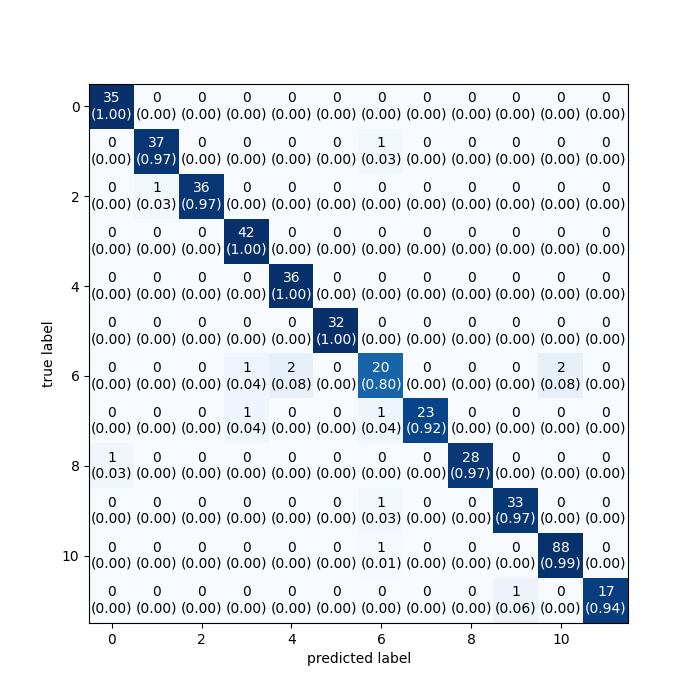
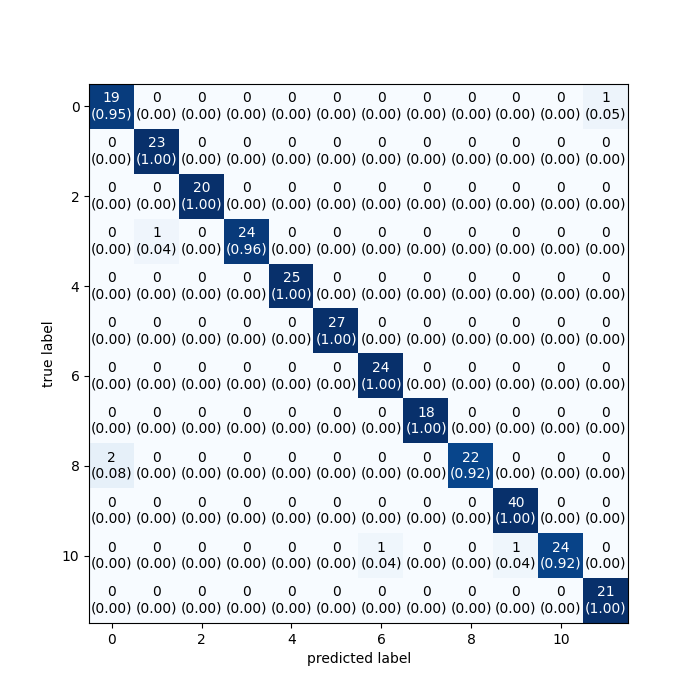
new sound data

diff --git a/room_sound/audio_process.py b/room_sound/audio_process.py
@@ -4,6 +4,9 @@ def copy_file(dir, target_dir):
     path = dir
     count = 0
     prefix = ''
+    if not os.path.exists(target_dir):
+        os.mkdir(target_dir)
+
     for fn in os.listdir(path):
         if os.path.isdir(dir + '/' + fn):
             print(fn)
@@ -69,15 +72,46 @@ def audio_file_truncate_by_dir(dir):
     path = dir
     count = 0
     prefix = ''
+    cnt = 0
     for fn in os.listdir(path):
         if os.path.isdir(dir + '/' + fn):
             source_dir = dir + '/' + fn
-            target_dir = source_dir.replace('ascc_activity', 'ascc_activity_1second')
+            target_dir = source_dir + '_1second'
             print(source_dir)
             print(target_dir)
 
             cnt = audio_file_truncate(source_dir, target_dir)
             print('Count:', cnt)
+
+            count = count + cnt
+
+    return count
+
+
+
+def audio_file_copy_truncate_by_dir(dir):
+    path = dir
+    count = 0
+    prefix = ''
+    cnt = 0
+    for fn in os.listdir(path):
+        if os.path.isdir(dir + '/' + fn):
+            source_dir = dir + '/' + fn
+            cp_dest_dir = source_dir + '_test'
+            print('cp:', source_dir)
+            print('cp:', cp_dest_dir)
+
+
+            cnt = copy_file(source_dir, cp_dest_dir)
+            print("count:", cnt)
+
+            
+            source_dir = cp_dest_dir
+            truncate_dir = source_dir + '_1second'
+            print('truncate:', source_dir)
+            print('truncate:', truncate_dir)
+            cnt = audio_file_truncate(source_dir, truncate_dir)
+            print('truncate Count:', cnt)
 
             count = count + cnt
 
@@ -106,18 +140,19 @@ if __name__ == '__main__':
     # cnt = copy_file(dir, target)
     # print("count:", cnt)
 
-    # dir = '/home/ascc/Desktop/audio.0822/quiet/'
-    # target = '/home/ascc/Desktop/audio.0822/quiet_test/'
+    # dir = '/home/ascc/Desktop/audio.0918/door/'
+    # target = '/home/ascc/Desktop/audio.0918/door_test/'
     # cnt = copy_file(dir, target)
     # print("count:", cnt)
 
 
-    source_dir =  '/home/ascc/Desktop/audio.0822/quiet_test/'
-    target_dir = '/home/ascc/Desktop/audio.0822/quiet_1sec/'
-    cnt = audio_file_truncate(source_dir, target_dir)
-    print('Count:', cnt)
+    # source_dir =  target
+    # target_dir = '/home/ascc/Desktop/audio.0918/door_1sec/'
+    # cnt = audio_file_truncate(source_dir, target_dir)
+    # print('Count:', cnt)
     
-    # audio_file_truncate_by_dir('/home/ascc/LF_Workspace/Motion-Trigered-Activity/Sound-Recognition-Tutorial/data/ascc_activity/')   
+    # audio_file_truncate_by_dir('/home/ascc/Desktop/audio.0918/')   
+    audio_file_copy_truncate_by_dir('/home/ascc/Desktop/audio.0918/')
 
 
 

diff --git a/room_sound/ascc_extraction_2.py b/room_sound/ascc_extraction_2.py
@@ -46,7 +46,7 @@ flush_toilet@9_freesound-flush_toilet__253105__va7mjl__toilet-flush_4.wav
     info = {}
     for i in labels:
         # sub_dir = "/home/ascc/LF_Workspace/Motion-Trigered-Activity/Sound-Recognition-Tutorial/data/ascc_activity_1second/audio/" + i
-        sub_dir = "/home/ascc/LF_Workspace/Bayes_model/ADL_HMM_BAYES_V2/ADL_HMM_BAYES/room_sound/sound_dataset/ascc_activity_1second/audio/" + i
+        sub_dir = "/home/ascc/LF_Workspace/Bayes_model/Product_ADL/ADL_HMM_BAYES/room_sound/sound_dataset/ascc_activity_1second/audio/" + i
         files = os.listdir(sub_dir)
         aa = []
         for a_file in files:
@@ -131,7 +131,7 @@ flush_toilet@9_freesound-flush_toilet__253105__va7mjl__toilet-flush_4.wav
     # np.savez('/home/ascc/LF_Workspace/Motion-Trigered-Activity/Sound-Recognition-Tutorial/data/ascc_activity_1second/feature/ascc_logmel_total.npz',
     #             train_x=train_feats, train_y=train_labels, test_x=test_feats, test_y=test_labels)
 
-    np.savez('/home/ascc/LF_Workspace/Bayes_model/ADL_HMM_BAYES_V2/ADL_HMM_BAYES/room_sound/sound_dataset/ascc_activity_1second/feature/ascc_logmel_total.npz',
+    np.savez('/home/ascc/LF_Workspace/Bayes_model/Product_ADL/ADL_HMM_BAYES/room_sound/sound_dataset/ascc_activity_1second/feature/ascc_logmel_total.npz',
                 train_x=train_feats, train_y=train_labels, test_x=test_feats, test_y=test_labels)
 
                 

diff --git a/room_sound/ascc_room_sound_activity_train.py b/room_sound/ascc_room_sound_activity_train.py
@@ -85,7 +85,8 @@ def CNN_train(test_fold, feat):
     # test_labes: (469,)
     # train_features, train_labels, test_features, test_labels = esc10_input.get_data(test_fold, feat)
     # ob_folder = '/home/ascc/LF_Workspace/Motion-Trigered-Activity/Sound-Recognition-Tutorial/data/ascc_activity_1second/feature/ascc_logmel_total.npz' # acc:0.9396
-    ob_folder = '/home/ascc/LF_Workspace/Bayes_model/ADL_HMM_BAYES_V2/ADL_HMM_BAYES/room_sound/sound_dataset/ascc_activity_1second/feature/ascc_logmel_total.npz'
+    # ob_folder = '/home/ascc/LF_Workspace/Bayes_model/ADL_HMM_BAYES_V2/ADL_HMM_BAYES/room_sound/sound_dataset/ascc_activity_1second/feature/ascc_logmel_total.npz'
+    ob_folder = '/home/ascc/LF_Workspace/Bayes_model/Product_ADL/ADL_HMM_BAYES/room_sound/sound_dataset/ascc_activity_1second/feature/ascc_logmel_total.npz'
     train_features, train_labels, test_features, test_labels = esc10_input.get_data_all(ob_folder, feat, number_class=num_class)
 
     # print('train_labels: ',train_labels.shape)
